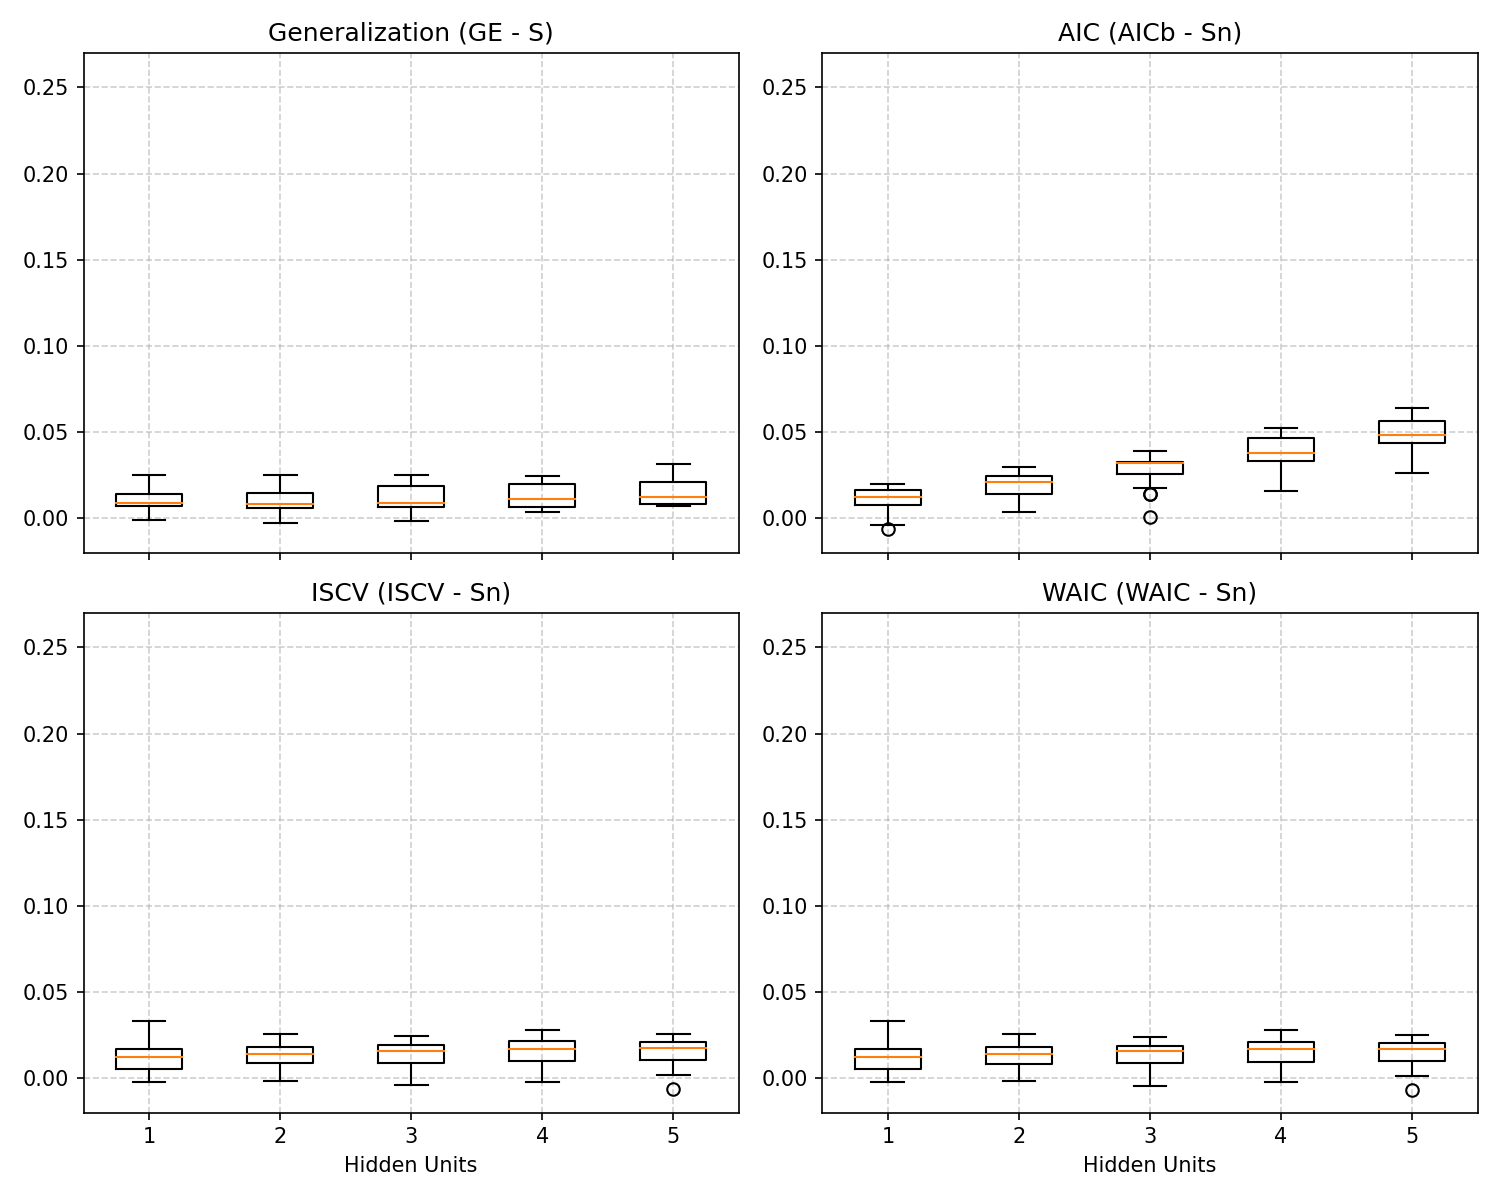
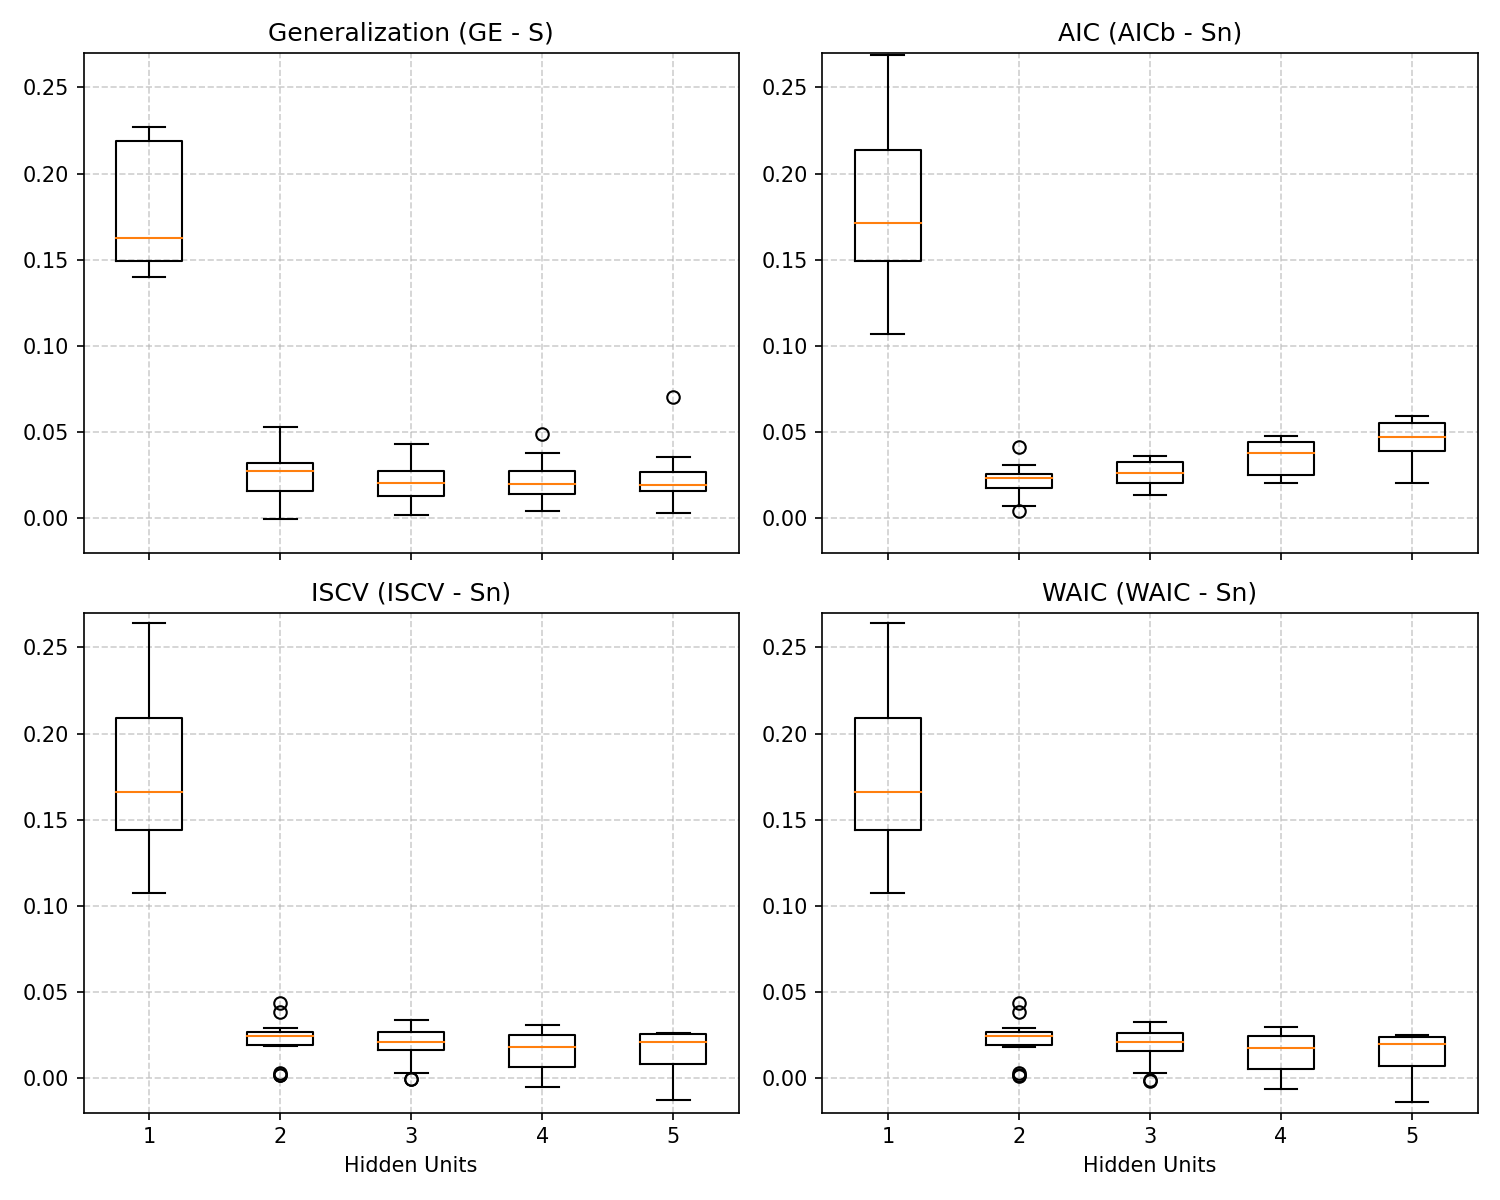
Trying to make the true model more complex.

diff --git a/reproduce_figure_2_7.py b/reproduce_figure_2_7.py
@@ -103,8 +103,10 @@ def metropolis(Y, X, H, iters=50000, burn_in=20000):
 
 def run_trial(seed):
     """
-    Runs a single trial for an experiment comparing WAIC, LOO-CV (ISCV), AIC, and Ground Truth Generalization (GE).
-    This function generates a dataset according to the true generative process and fits models of varying complexity.
+    Runs a single trial for an experiment comparing WAIC, LOO-CV (ISCV), AIC, 
+    and Ground Truth Generalization (GE).
+    This function generates a dataset according to the true generative process and 
+    fits models of varying complexity.
     """
     trial_file = f'figures/trial_{seed}.pkl'
     if os.path.exists(trial_file):
@@ -119,9 +121,10 @@ def run_trial(seed):
     n = 200 # Training dataset size
     H_true = 3 # The true synthetic model has 3 hidden units
     # The true parameters: we use a fixed true network across all trials 
-    # to see consistent generalization behavior (like in the book)
-    rng_true = np.random.RandomState(42) 
-    w_true = rng_true.normal(0, 2.0, size=3*H_true)
+    # to see consistent generalization behavior (like in the book).
+    # Seed 100 with std=3.0 creates a robustly complex 3-unit network mapping.
+    rng_true = np.random.RandomState(100) 
+    w_true = rng_true.normal(0, 3.0, size=3*H_true)
     
     # Generate training data inputs and outputs 
     X = np.random.uniform(-2, 2, size=(n, 2))
